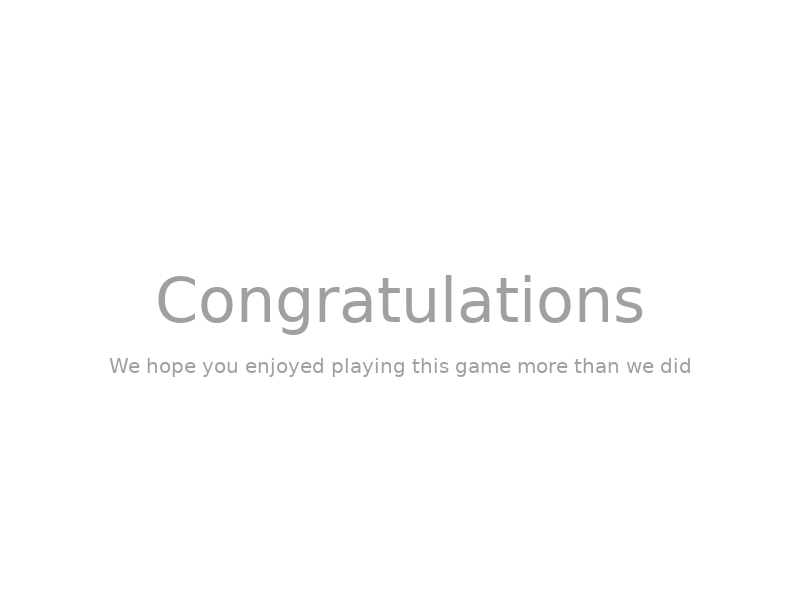
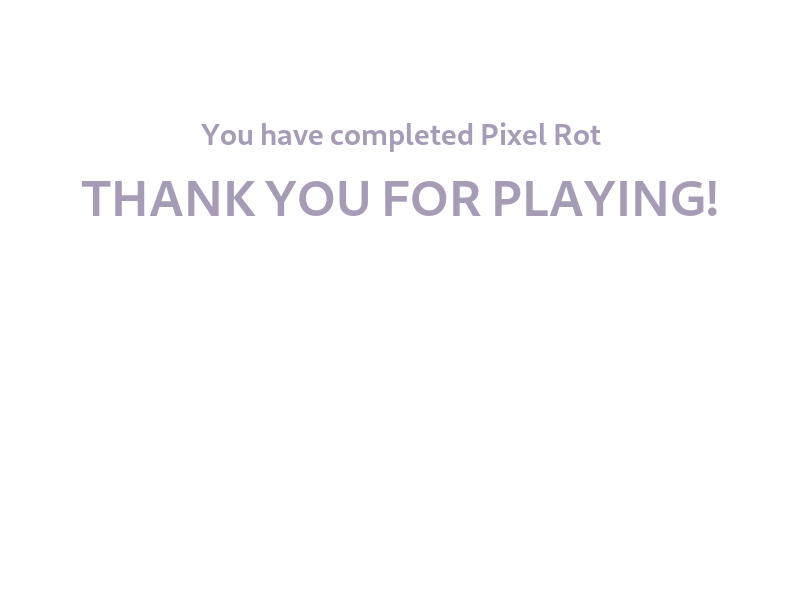
Improved end game

diff --git a/src/states/DummyState.cpp b/src/states/DummyState.cpp
@@ -15,6 +15,7 @@ DummyState::DummyState(Settings &settings, const sf::Texture& spriteSheet, State
 	, m_enemyPool(m_enemyFactory, m_map)
 	, m_enemyDrawable(m_enemyPool, m_spriteSheetMapper)
 	, m_projectileHitDetector(m_map, m_enemyPool, m_player)
+	, m_goal(false)
 {
 	InputMapping &inputMapping = settings
 		.inputMapping();
@@ -48,10 +49,17 @@ DummyState::DummyState(Settings &settings, const sf::Texture& spriteSheet, State
 		.shoot()
 		.onPress(m_player, &Player::shoot)
 		.onRelease(m_player, &Player::stopShooting);
+
+	m_goalTexture.loadFromFile("resources/congratulations.png");
 }
 
 void DummyState::keyPressed(const sf::Event &event)
 {
+	if (m_goal)
+	{
+		return;
+	}
+
 	KeyMapping *mapping = m_settings
 		.inputMapping()
 		.find(event);
@@ -64,6 +72,11 @@ void DummyState::keyPressed(const sf::Event &event)
 
 void DummyState::keyReleased(const sf::Event &event)
 {
+	if (m_goal)
+	{
+		return;
+	}
+
 	KeyMapping *mapping = m_settings
 		.inputMapping()
 		.find(event);
@@ -76,6 +89,11 @@ void DummyState::keyReleased(const sf::Event &event)
 
 void DummyState::mouseButtonPressed(const sf::Event &event)
 {
+	if (m_goal)
+	{
+		return;
+	}
+
 	KeyMapping *mapping = m_settings
 		.inputMapping()
 		.find(event);
@@ -88,6 +106,11 @@ void DummyState::mouseButtonPressed(const sf::Event &event)
 
 void DummyState::mouseButtonReleased(const sf::Event &event)
 {
+	if (m_goal)
+	{
+		return;
+	}
+
 	KeyMapping *mapping = m_settings
 		.inputMapping()
 		.find(event);
@@ -100,6 +123,11 @@ void DummyState::mouseButtonReleased(const sf::Event &event)
 
 void DummyState::joystickButtonPressed(const sf::Event &event)
 {
+	if (m_goal)
+	{
+		return;
+	}
+
 	KeyMapping *mapping = m_settings
 		.inputMapping()
 		.find(event);
@@ -112,6 +140,11 @@ void DummyState::joystickButtonPressed(const sf::Event &event)
 
 void DummyState::joystickButtonReleased(const sf::Event &event)
 {
+	if (m_goal)
+	{
+		return;
+	}
+
 	KeyMapping *mapping = m_settings
 		.inputMapping()
 		.find(event);
@@ -124,7 +157,10 @@ void DummyState::joystickButtonReleased(const sf::Event &event)
 
 void DummyState::update(float delta)
 {
-	UNUSED(delta);
+	if (m_goal)
+	{
+		return;
+	}
 
 	m_player.update(delta);
 	m_playerDrawable.update(delta);
@@ -143,7 +179,7 @@ void DummyState::update(float delta)
 
 	if (m_map.intersectsGoal(playerBox))
 	{
-		m_stateHandler.changeState(&m_goalState);
+		m_goal = true;
 	}
 }
 
@@ -160,4 +196,24 @@ void DummyState::draw(sf::RenderTarget &target, sf::RenderStates states) const
 	target.draw(m_map);
 	target.draw(m_playerDrawable);
 	target.draw(m_enemyDrawable);
+
+	if (m_goal)
+	{
+		const auto &size = target.getSize();
+		const auto &topLeft = target.mapPixelToCoords(sf::Vector2i(0, 0), view);
+
+		const sf::Vector2f spritePosition(topLeft.x + ((size.x - 800) / 4), topLeft.y + ((size.y - 600) / 4));
+
+		sf::RectangleShape rect;
+		rect.setPosition(topLeft);
+		rect.setFillColor(sf::Color(0x272034AA));
+		rect.setSize(sf::Vector2f(size));
+
+		sf::Sprite goalSprite(m_goalTexture);
+		goalSprite.setScale(0.5, 0.5);
+		goalSprite.setPosition(spritePosition);
+
+		target.draw(rect);
+		target.draw(goalSprite);
+	}
 }

diff --git a/src/states/DummyState.h b/src/states/DummyState.h
@@ -12,7 +12,6 @@
 #include "EnemyFactory.h"
 #include "EnemyPool.h"
 #include "ProjectileHitDetector.h"
-#include "GoalState.h"
 
 class Settings;
 class StateHandler;
@@ -37,6 +36,8 @@ class DummyState : public IState
 		void draw(sf::RenderTarget &target, sf::RenderStates states) const override;
 
 	private:
+		sf::Texture m_goalTexture;
+
 		Settings &m_settings;
 
 		SpriteSheetMapper m_spriteSheetMapper;
@@ -45,13 +46,14 @@ class DummyState : public IState
 		PlayerDrawable m_playerDrawable;
 		Camera m_camera;
 		StateHandler &m_stateHandler;
-		GoalState m_goalState;
 
 		EnemyFactory m_enemyFactory;
 		EnemyPool m_enemyPool;
 		EnemyDrawable m_enemyDrawable;
 
 		ProjectileHitDetector m_projectileHitDetector;
+
+		bool m_goal;
 };
 
 #endif // DUMMYSTATE_H

diff --git a/src/Player.cpp b/src/Player.cpp
@@ -18,7 +18,7 @@ Player::Player(const IMapInformationProvider& collisionInformationProvider, cons
 	: m_collisionInformationProvider(collisionInformationProvider)
 	, m_projectileHitDetector(projectileHitDetector)
 	, m_enemyPool(enemyPool)
-	, m_position(10 * TILE_SIZE, 6 * TILE_SIZE)
+	, m_position(44 * TILE_SIZE, 48 * TILE_SIZE)
 	, m_velocity(0, 0)
 	, m_lastCheckpointTilePosition(10, 6)
 	, m_direction(0, 0)
